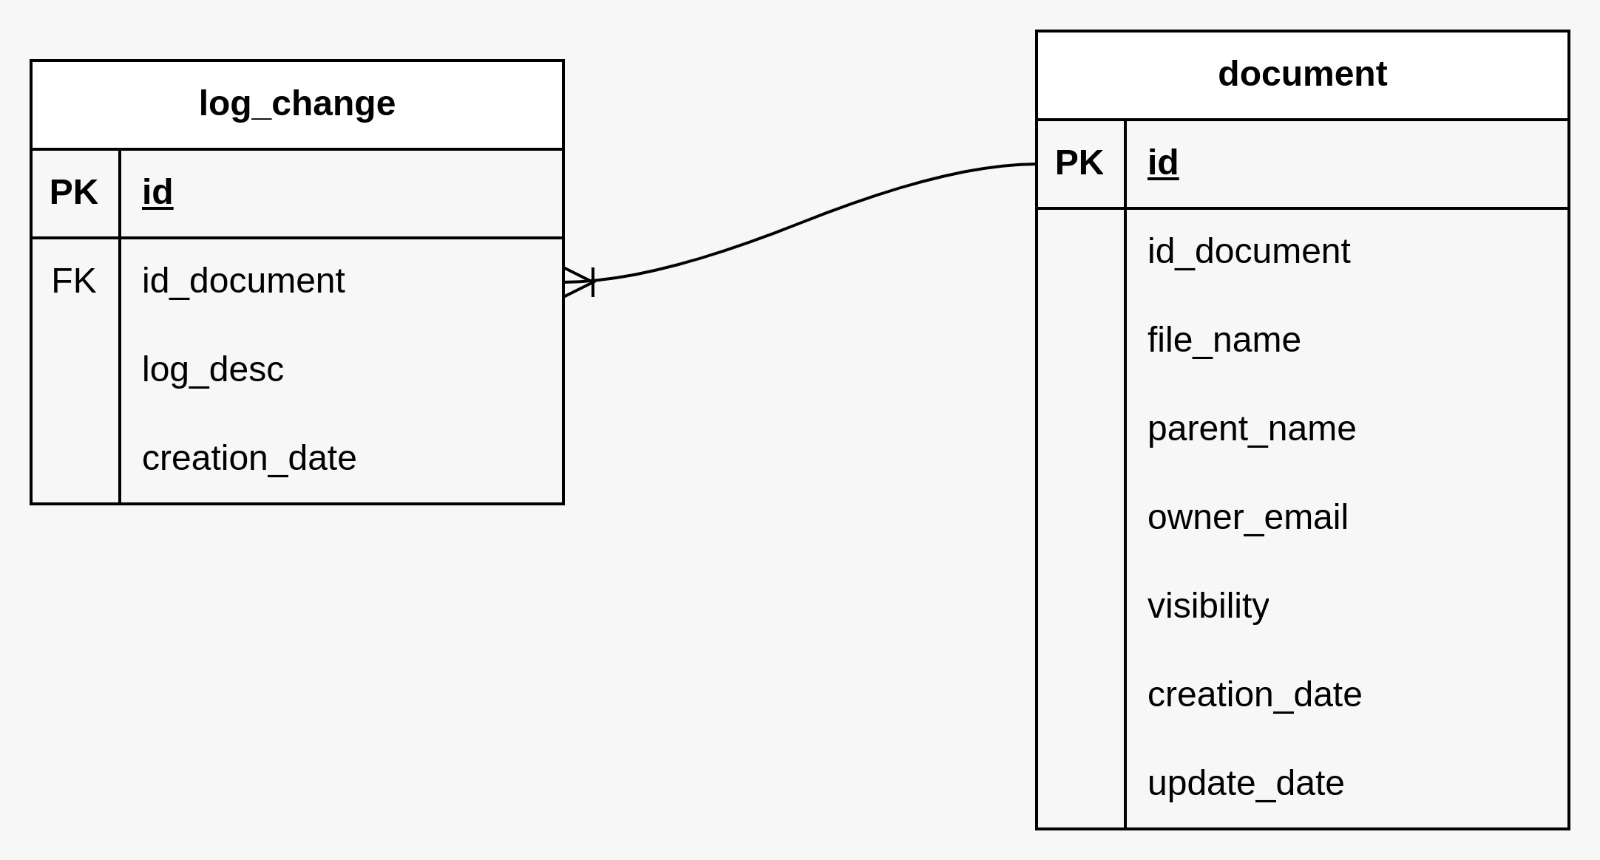
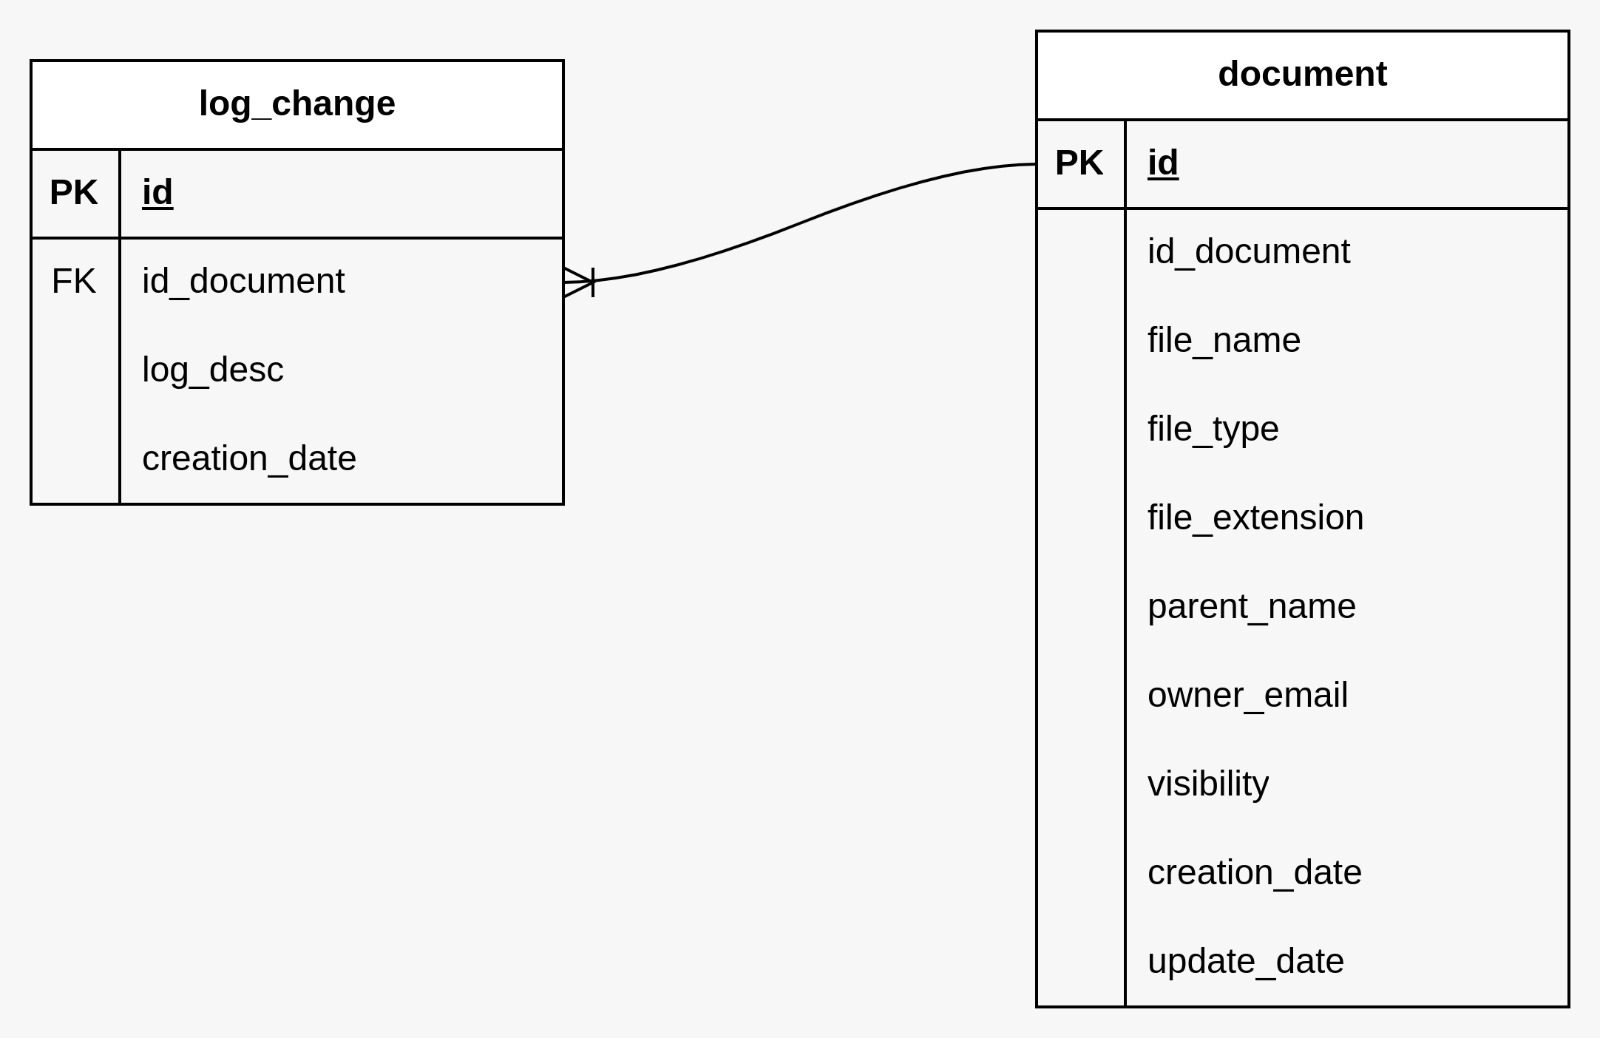
Modificaciones para guardar el file type y file extension

diff --git a/app/templates/public_documents.html b/app/templates/public_documents.html
@@ -17,6 +17,8 @@
         <tr>
           <th>ID Documento</th>
           <th>Nombre</th>
+          <th>Tipo</th>
+          <th>Extension</th>
           <th>Ubicación</th>
           <th>Dueño</th>
           <th>Visibilidad</th>
@@ -26,11 +28,13 @@
           <tr>
             <td>{{ doc.id_document }}</td>
             <td>{{ doc.file_name }}</td>
+            <td>{{ doc.file_type }}</td>
+            <td>{{ doc.file_extension }}</td>
             <td>{{ doc.parent_name }}</td>
             <td>{{ doc.owner_email}}</td>
             <td id="visibility_{{ doc.id_document }}">{{ doc.visibility }}</td>
             <td>
-              <button onclick="changeVisibility('{{ doc.id_document }}', '{{ doc.file_name }}', '{{ doc.parent_name }}', '{{ doc.owner_email }}', '{{ doc.visibility }}')">Cambiar a Privado</button>
+              <button onclick="changeVisibility('{{ doc.id_document }}', '{{ doc.file_name }}', '{{ doc.file_type }}', '{{ doc.file_extension }}', '{{ doc.parent_name }}', '{{ doc.owner_email }}', '{{ doc.visibility }}')">Cambiar a Privado</button>
             </td>
           </tr>
         {% endfor %}

diff --git a/app/templates/documents.html b/app/templates/documents.html
@@ -11,6 +11,8 @@
             <tr>
                 <th>ID</th>
                 <th>Nombre</th>
+                <th>Tipo</th>
+                <th>Extension</th>
                 <th>Ubicación</th>
                 <th>Dueño</th>
                 <th>Visibilidad</th>
@@ -19,6 +21,8 @@
                 <tr>
                     <td>{{ doc.id_document }}</td>
                     <td>{{ doc.file_name }}</td>
+                    <td>{{ doc.file_type }}</td>
+                    <td>{{ doc.file_extension }}</td>
                     <td>{{ doc.parent_name }}</td>
                     <td>{{ doc.owner_email }}</td>
                     <td>{{ doc.visibility }}</td>

diff --git a/app/templates/_scripts.html b/app/templates/_scripts.html
@@ -1,8 +1,10 @@
 <script>
-    function changeVisibility(id_document, file_name, parent_name, owner_email, visibility) {
+    function changeVisibility(id_document, file_name, file_type, file_extension, parent_name, owner_email, visibility) {
         const documentData = {
             id_document: id_document,
             file_name: file_name,
+            file_type: file_type,
+            file_extension: file_extension,
             parent_name: parent_name,
             owner_email: owner_email,
             visibility: 'private',

diff --git a/db-connector/database_methods.py b/db-connector/database_methods.py
@@ -3,6 +3,7 @@ import os
 from mysql.connector.abstracts import MySQLConnectionAbstract, MySQLCursorAbstract
 from mysql.connector.pooling import PooledMySQLConnection
 from dotenv import load_dotenv
+from global_exception_log import error_logger
 import logging
 logging.basicConfig(level=logging.INFO)
 logger = logging.getLogger('database-ms')
@@ -18,6 +19,8 @@ CREATE_SENTENCE_TABLE_DOCUMENTS = """
         id INT AUTO_INCREMENT PRIMARY KEY,
         id_document VARCHAR(200) UNIQUE NOT NULL,
         file_name VARCHAR(200) NOT NULL,
+        file_type VARCHAR(200) NOT NULL,
+        file_extension VARCHAR(200) NOT NULL,
         parent_name VARCHAR(200) NOT NULL,
         owner_email VARCHAR(200) NOT NULL,
         visibility VARCHAR(200) NOT NULL,
@@ -164,12 +167,12 @@ def insert_documents(documents, close_connection=True):
     result, message = verify_tables()
     if result is True:
         query = """
-        INSERT INTO document (id_document, file_name, parent_name, owner_email, visibility)
-        VALUES (%s, %s, %s, %s, %s)
+        INSERT INTO document (id_document, file_name, file_type, file_extension, parent_name, owner_email, visibility)
+        VALUES (%s, %s, %s, %s, %s, %s, %s)
         """
 
         # Convertir la lista de diccionarios en una lista de tuplas
-        values = [(doc['id_document'], doc['file_name'], doc['parent_name'], doc['owner_email'], doc['visibility']) for
+        values = [(doc['id_document'], doc['file_name'], doc['file_type'], doc['file_extension'], doc['parent_name'], doc['owner_email'], doc['visibility']) for
                   doc
                   in documents]
 
@@ -195,6 +198,8 @@ def update_registers(registers, close_connection=True):
 
     fields_to_update = [
         'file_name',
+        'file_type',
+        'file_extension',
         'parent_name',
         'owner_email',
         'visibility'
@@ -219,6 +224,8 @@ def update_registers(registers, close_connection=True):
     for record in registers:
         values_update.append((
             record['file_name'],
+            record['file_type'],
+            record['file_extension'],
             record['parent_name'],
             record['owner_email'],
             record['visibility'],
@@ -255,8 +262,9 @@ def update_registers(registers, close_connection=True):
 
     except Exception as e:
         db.rollback()
-        logger.error(f"Error al actualizar documentos y logs: {e}")
-        return False, f"Error al actualizar los documentos y logs: {e}"
+        message = f"Error al actualizar los documentos y logs: {e}"
+        error_logger(e, message)
+        return False, message
 
     finally:
         close_connection_(close_connection)

diff --git a/app/gcp_methods.py b/app/gcp_methods.py
@@ -81,13 +81,16 @@ def get_documents(credentials, folder_id=None):
         while True:
             results = service.files().list(
                 q=query,
-                fields="nextPageToken, files(id, name, owners, permissions, parents)",
+                fields="nextPageToken, files(id, name, mimeType, owners, permissions, parents)",
                 pageSize=1000, pageToken=page_token
             ).execute()
 
             for file in results.get('files', []):
                 file_id = file['id']
                 file_name = file['name']
+                mime_type = file.get('mimeType', '')
+                file_type = mime_type.split('.')[-1] if '.' in mime_type else mime_type.split('/')[-1]
+                file_extension = file['name'].split('.')[-1]
                 owner_email = file['owners'][0]['emailAddress'] if 'owners' in file else "Desconocido"
                 parents = file.get('parents', [])
 
@@ -106,6 +109,8 @@ def get_documents(credentials, folder_id=None):
                 documents.append({
                     "id_document": file_id,
                     "file_name": file_name,
+                    "file_type": file_type,
+                    "file_extension": file_extension,
                     "parent_name": parent_name,
                     "owner_email": owner_email,
                     "visibility": visibility

diff --git a/db-connector/global_exception_log.py b/db-connector/global_exception_log.py
@@ -1,0 +1,11 @@
+import logging
+logging.basicConfig(level=logging.INFO)
+logger = logging.getLogger('global_error_logger')
+
+def error_logger(e: Exception, message: str):
+    logger.info(message)
+    tb = e.__traceback__
+    line_number = tb.tb_lineno
+    file_name = tb.tb_frame.f_code.co_filename
+    logger.info(e)
+    logger.info(f'Line number: {line_number} File: {file_name} Error: {str(e)}') 
